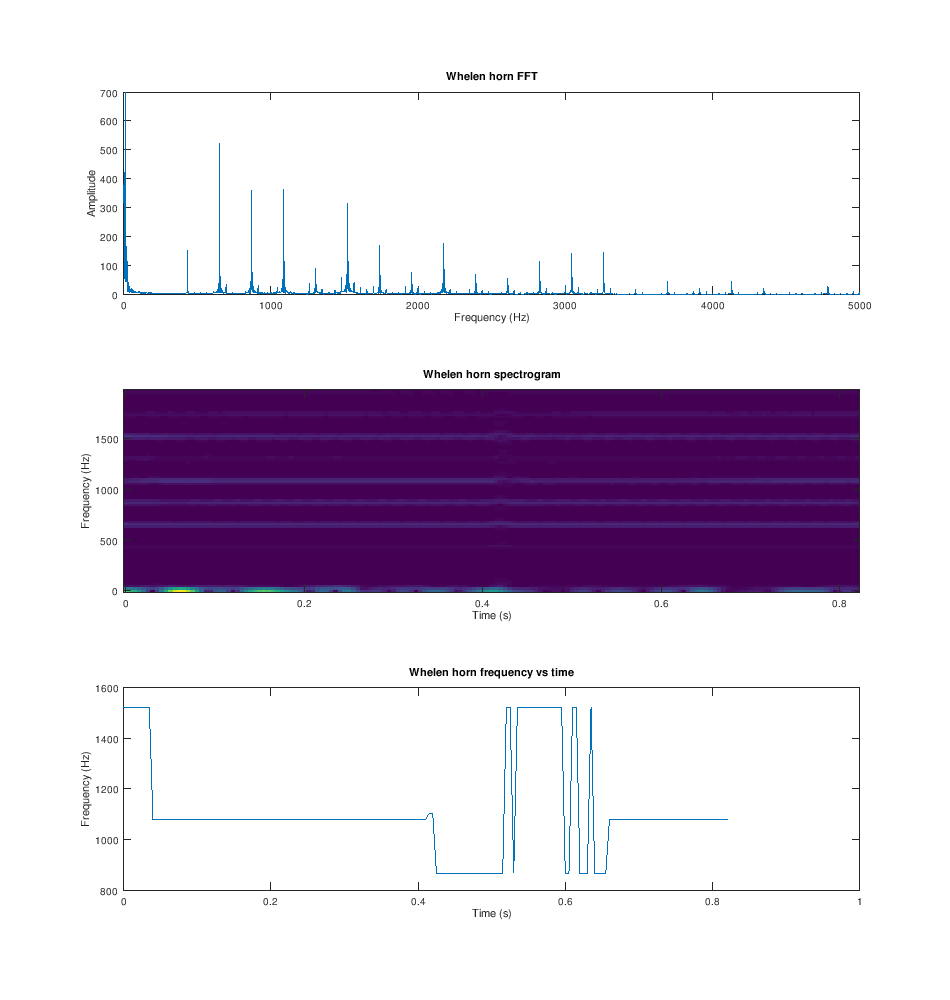
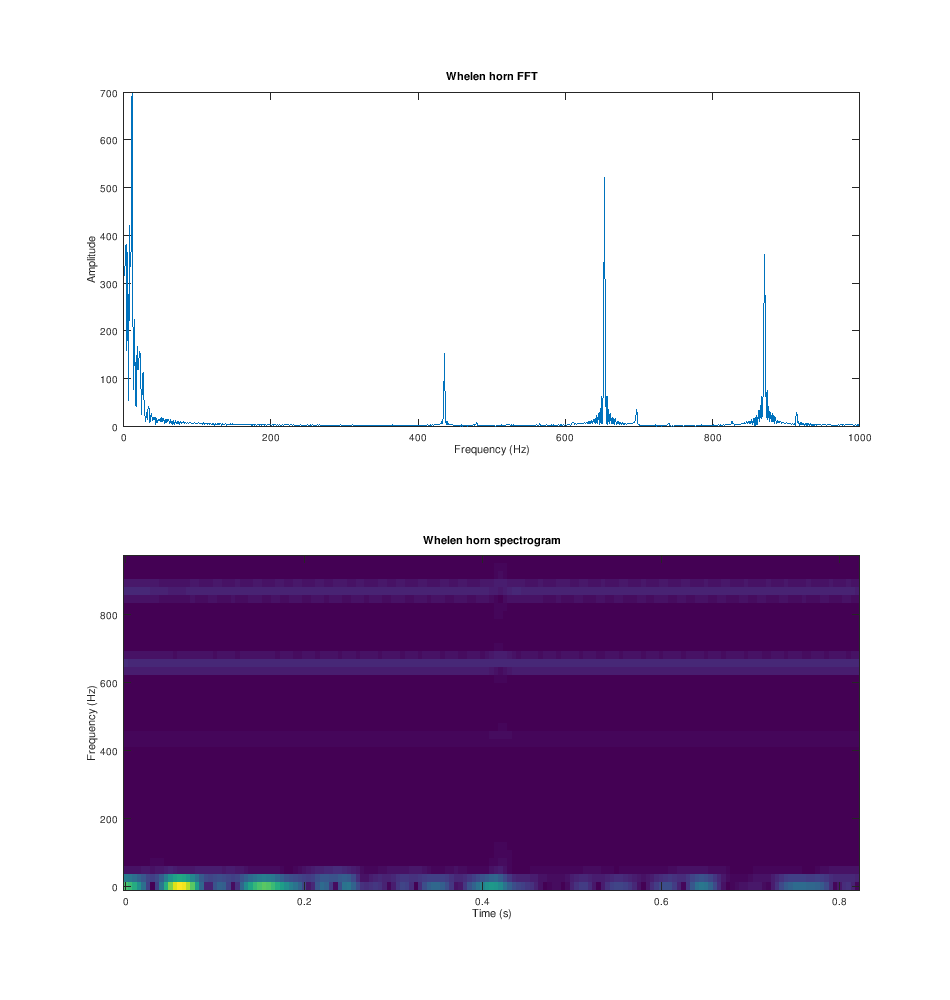
Updated analysis of horn sound.  renamed lookup.m to avoid conflicts with octave print function.  Added horn frequency into lookup_table.h generation

diff --git a/octave_files/frequencyAnalysis.m b/octave_files/frequencyAnalysis.m
@@ -134,10 +134,10 @@ figure(4,"name", "Horn", "position",[10 10 950 1000]);
 x1 = (x(:,1)+x(:,2))/2;             # Convert the stereo audio into mono
 f = (Fs/length(x1))*(1:length(x1)); # Generate the frequency values
 y=fft(x1);                          # Run an FFT on the audio data
-mask = f<5000;                      # Only plot frequencies less than 5000 Hz
+mask = f<1000;                      # Only plot frequencies less than 1000 Hz
 y=y(mask);
 f=f(mask);
-subplot(311)                        # Plot the FFT and label the axis
+subplot(211)                        # Plot the FFT and label the axis
 plot(f,abs(y))
 title("Whelen horn FFT");
 xlabel("Frequency (Hz)");
@@ -146,28 +146,14 @@ step = fix(Fs*5/1000);              # 5 ms slice size
 window = fix(Fs*40/1000);           # 40 ms window
 fftn = 2^nextpow2(window);          # FFT length
 [S, f, t] = specgram(x1, fftn, Fs, window, window-step);
-S = abs(S(1:fftn*2000/Fs,:));       # Limit the range to less than 2000Hz
+S = abs(S(1:fftn*1000/Fs,:));       # Limit the range to less than 1000Hz
 S = S/max(S(:));                    # Normalize magnitude
-subplot(312)                        # Plot the specgram
+subplot(212)                        # Plot the specgram
 imagesc (t, f(1:rows(S)), S);
 title("Whelen horn spectrogram");
 xlabel("Time (s)");
 ylabel("Frequency (Hz)");
 set (gca, "ydir", "normal"); # Fix the y axis direction
-f=f(1:rows(S));
-mask = f>filter_low & f<filter_high;
-f = f(mask);
-S = S(mask,:);
-[max_value, max_index] = max(S);    # Identify the indecies of the maximum intensity
-max_freqs = f(max_index);           #  values for each time and calculate the max frequency
-subplot(313);
-plot(t,max_freqs);                  # Plot the frequencies with the maximum intensities
-title("Whelen horn frequency vs time");
-xlabel("Time (s)");
-ylabel("Frequency (Hz)");
 print -dpng "-S950,1000" horn.png;
 pause(5);
 close();
-
-
-

diff --git a/octave_files/generateLookup.m b/octave_files/generateLookup.m
@@ -6,6 +6,7 @@ prescaler     = 1;
 fileName      = "lookup_table";
 riseFallTimes = [0 2 3 0.18 0.18 0.04 0.04]
 riseFallTimes = riseFallTimes .*(clock/n_steps);
+horn_frequency= 220;
 
 #First calculate the coefficients
 #General Form is y =  a*ln(x+e)+b
@@ -28,6 +29,7 @@ fileName = upper(fileName(1:end-2));
 temp = ["#ifndef " fileName "_H_\n#define " fileName "_H_\n"]
 fdisp(file,temp);
 fprintf(file,"const unsigned int LOOKUP_LENGTH = %.0f;\n",length(cycles));
+fprintf(file,"const unsigned int HORN_VALUE = %.0f;\n",clock/horn_frequency);
 fdisp(file,"const unsigned long RISE_FALL_TIMES[]={");
 fprintf(file,"\t%.0f,\n",riseFallTimes(1:end-1));
 fprintf(file,"\t%.0f\n",riseFallTimes(end));

diff --git a/octave_files/lookup_table.h b/octave_files/lookup_table.h
@@ -2,6 +2,7 @@
 #define LOOKUP_TABLE_H_
 
 const unsigned int LOOKUP_LENGTH = 300;
+const unsigned int HORN_VALUE = 181818;
 const unsigned long RISE_FALL_TIMES[]={
 	0,
 	266667,
